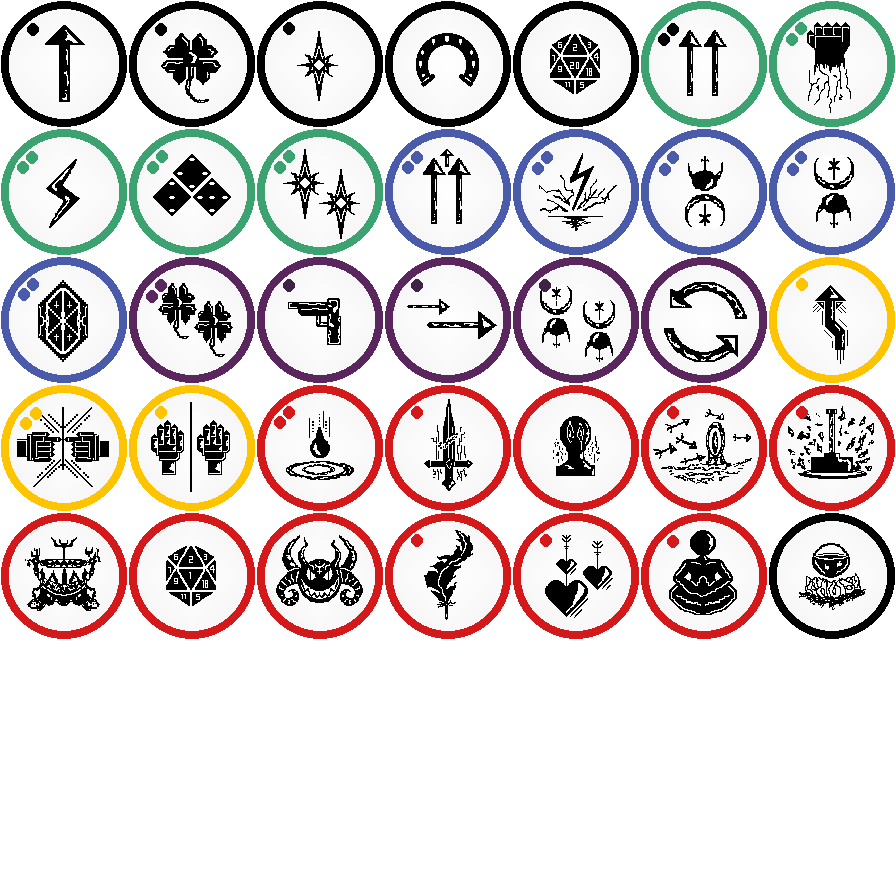
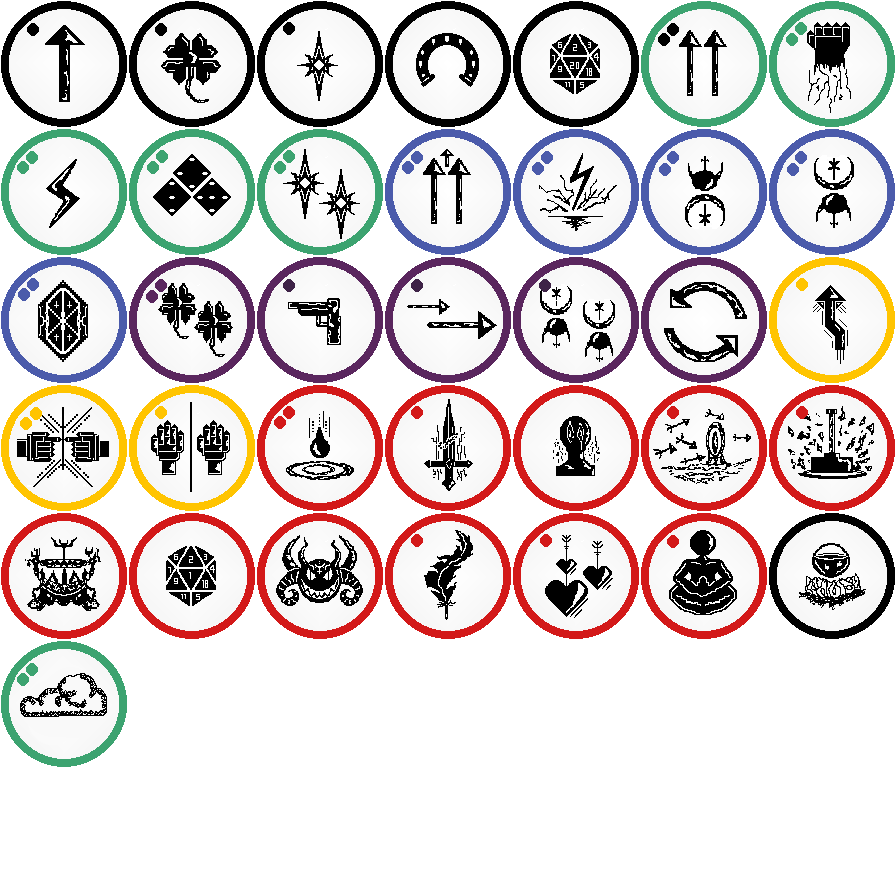
Close ?

Changed region(s): [[0.0, 0.7188, 0.1562, 0.875]]

diff --git a/main.go b/main.go
@@ -1,23 +1,17 @@
 package main
 
 import (
-	"fmt"
 	"image"
 	"log"
 
 	"github.com/Zyko0/Alapae/assets"
 	"github.com/Zyko0/Alapae/core"
 	"github.com/Zyko0/Alapae/input"
+	"github.com/Zyko0/Alapae/logic"
 	"github.com/Zyko0/Alapae/ui"
 	"github.com/go-gl/mathgl/mgl64"
 	"github.com/hajimehoshi/ebiten/v2"
-	"github.com/hajimehoshi/ebiten/v2/ebitenutil"
 	"github.com/hajimehoshi/ebiten/v2/inpututil"
-)
-
-const (
-	ScreenWidth  = 1920
-	ScreenHeight = 1080
 )
 
 type Game struct {
@@ -28,19 +22,18 @@ type Game struct {
 	splash *ui.SplashView
 	stats  *ui.Stats
 
-	//paused  bool
 	updated bool
 }
 
 func New() *Game {
 	return &Game{
-		offscreen: ebiten.NewImage(ScreenWidth, ScreenHeight),
+		offscreen: ebiten.NewImage(logic.ScreenWidth, logic.ScreenHeight),
 		game: core.NewGame(core.NewCamera(
 			mgl64.Vec3{0, 0, 0},
 			mgl64.Vec3{0, 0, 0},
 			45,
-			float64(ScreenWidth)/float64(ScreenHeight),
-		), image.Rect(0, 0, ScreenWidth, ScreenHeight)),
+			float64(logic.ScreenWidth)/float64(logic.ScreenHeight),
+		), image.Rect(0, 0, logic.ScreenWidth, logic.ScreenHeight)),
 		hud: &ui.HUD{},
 
 		splash: ui.NewSplashView(),
@@ -66,8 +59,8 @@ func (g *Game) Update() error {
 			mgl64.Vec3{0, 0, 0},
 			mgl64.Vec3{0, 0, 0},
 			45,
-			float64(ScreenWidth)/float64(ScreenHeight),
-		), image.Rect(0, 0, ScreenWidth, ScreenHeight))
+			float64(logic.ScreenWidth)/float64(logic.ScreenHeight),
+		), image.Rect(0, 0, logic.ScreenWidth, logic.ScreenHeight))
 	}
 	sctx := &ui.StatsContext{
 		Title: "Pause",
@@ -135,19 +128,10 @@ func (g *Game) Draw(screen *ebiten.Image) {
 		g.updated = false
 	}
 	screen.DrawImage(g.offscreen, nil)
-
-	// Debug
-	ebitenutil.DebugPrint(
-		screen,
-		fmt.Sprintf("TPS: %0.2f - FPS %.02f",
-			ebiten.ActualTPS(),
-			ebiten.ActualFPS(),
-		),
-	)
 }
 
 func (g *Game) Layout(outsideWidth, outsideHeight int) (int, int) {
-	return ScreenWidth, ScreenHeight
+	return logic.ScreenWidth, logic.ScreenHeight
 }
 
 func main() {
@@ -155,7 +139,7 @@ func main() {
 	ebiten.SetVsyncEnabled(false)
 	ebiten.SetTPS(core.TPS)
 	ebiten.SetFullscreen(true)
-	ebiten.SetWindowSize(ScreenWidth, ScreenHeight)
+	ebiten.SetWindowSize(logic.ScreenWidth, logic.ScreenHeight)
 	ebiten.SetCursorShape(ebiten.CursorShapeCrosshair)
 
 	assets.SetMusic(assets.MusicMenuShop)

diff --git a/ui/hud.go b/ui/hud.go
@@ -157,7 +157,7 @@ func (*HUD) drawItemTooltip(screen *ebiten.Image, item *building.Item) {
 	for i, c := range item.Curses {
 		// Display up to 8 curses
 		if i >= maxCurses {
-			// TODO: display a "+" to inform that there are more hidden?
+			// Indicate that there are more hidden curses
 			str = fmt.Sprintf("%d more random curses.", len(item.Curses)-8)
 			topts.GeoM.Reset()
 			topts.GeoM.Translate(
@@ -289,9 +289,18 @@ func (hud *HUD) Draw(screen *ebiten.Image, ctx *HUDContext) {
 		opts.ColorScale.Scale(0.8, 0.8, 0.8, 1)
 		text.Draw(screen, str, titleFace, opts)
 	}
-
 	// Item tooltip
 	if ctx.StageKind == core.Building && ctx.TargetItem != nil {
 		hud.drawItemTooltip(screen, ctx.TargetItem)
 	}
+	// Stage number
+	str = fmt.Sprintf("Stage: %d", ctx.Stage)
+	//w, h = text.Measure(str, titleFace, 0)
+	opts.GeoM.Reset()
+	opts.GeoM.Translate(
+		logic.ScreenWidth-256,
+		32,
+	)
+	opts.ColorScale.Scale(0.8, 0.8, 0.8, 1)
+	text.Draw(screen, str, titleFace, opts)
 }

diff --git a/ui/settings.go b/ui/settings.go
@@ -109,7 +109,7 @@ func newSettings() *Settings {
 		),
 	)
 
-	options := ui.NewGrid(4, 4).WithOptions(
+	options := ui.NewGrid(4, 3).WithOptions(
 		opt.Grid.Options(
 			opt.RGB(15, 15, 15),
 			opt.Rounding(15),
@@ -142,15 +142,7 @@ func newSettings() *Settings {
 			opt.Text.PaddingLeft(10),
 		),
 	))
-	/*options.Add(0, 3, 1, 1, uiex.NewLabel("Yes").WithOptions(
-		opt.Label.Text(
-			opt.Text.Color(softWhite),
-			opt.Text.AlignLeft(),
-			opt.Text.Source(assets.FontSource),
-			opt.Text.Size(24),
-			opt.Text.PaddingLeft(10),
-		),
-	))*/
+
 	options.Add(1, 0, 3, 1, newSlider(s.offset, func(t float64) {
 		logic.MouseSensitivity = max(t, 0.01)
 	}, logic.MouseSensitivity))
@@ -162,7 +154,6 @@ func newSettings() *Settings {
 		logic.SFXVolume = t
 		assets.SetSFXVolume(t)
 	}, logic.SFXVolume))
-	//options.Add(1, 3, 3, 1, newSlider(s.offset))
 
 	s.layout.Grid().Add(2, 7, 28, 23, options)
 

diff --git a/core/hand/animation.go b/core/hand/animation.go
@@ -3,10 +3,8 @@ package hand
 import (
 	"errors"
 	"fmt"
-	"log"
 	"strings"
 
-	"github.com/Zyko0/Ebiary/asset"
 	"github.com/go-gl/mathgl/mgl64"
 )
 
@@ -189,31 +187,11 @@ func (a *Animation) NewInstance(hand *Hand, reverted bool) *AnimationInstance {
 	}
 }
 
-var TestAnimation *asset.LiveAsset[*Animation]
-
-func init() {
-	var err error
-
-	TestAnimation, err = asset.NewLiveAssetFunc("assets/animations/run.pose", func(b []byte) (*Animation, error) {
-		a := &Animation{}
-		if err := a.Deserialize(b); err != nil {
-			return nil, err
-		}
-		return a, nil
-	})
-	if err != nil {
-		log.Fatal("animation err: ", err)
-	}
-}
-
 func (a *AnimationInstance) Update(hand *Hand) {
 	if a == nil {
 		return
 	}
-	/*a.animation = TestAnimation.Value() // TODO: tmp
-	if err := TestAnimation.Error(); err != nil {
-		fmt.Println("err:", err)
-	}*/
+
 	var s *HandStep
 	// Lerp
 	idx := a.index

diff --git a/core/boss/smoke_mask.go b/core/boss/smoke_mask.go
@@ -46,7 +46,7 @@ func NewSmokeMask(position mgl64.Vec3, stageNum int) *SmokeMask {
 	smokes[8] = mgl64.Vec4{1, 0, -1, 1}
 	smokes[9] = mgl64.Vec4{0, 1, -1, 1}
 
-	hp := float64((stageNum % 2) * 10000)
+	hp := float64((1 + stageNum/2) * 10000)
 	return &SmokeMask{
 		position: position,
 		stance:   entity.StanceIdle,
@@ -62,7 +62,7 @@ func NewSmokeMask(position mgl64.Vec3, stageNum int) *SmokeMask {
 			rand.Float64() - 0.5,
 			rand.Float64() - 0.5,
 		}.Normalize(),
-		// TODO: hp
+
 		health:    hp,
 		maxHealth: hp,
 	}

diff --git a/ui/stats.go b/ui/stats.go
@@ -77,7 +77,7 @@ func newSubItemGrid(s *Stats) *ui.Grid {
 			)
 		}
 	}
-	// TODO: prepare picture containers
+
 	return g
 }
 
@@ -203,7 +203,6 @@ func NewStats() *Stats {
 	columns.Add(1, 0, 1, 1, allBlock)
 	columns.Add(2, 0, 1, 1, rightBlock)
 	columns.Add(3, 0, 1, 1, s.stats)
-	// TODO: stats block
 
 	// Description box
 	s.descPic = uiex.NewPicture(emptyImg).WithOptions(

diff --git a/core/entity/comet.go b/core/entity/comet.go
@@ -40,7 +40,7 @@ func (c *Comet) Damage() float64 {
 func (c *Comet) TakeHit(_ float64) {}
 
 func (c *Comet) Update(_ *Context) {
-	c.position = c.position.Add(mgl64.Vec3{0, -1, 0}.Mul(c.speed)) // TODO:
+	c.position = c.position.Add(mgl64.Vec3{0, -1, 0}.Mul(c.speed))
 	c.ticks++
 }
 

diff --git a/input/input.go b/input/input.go
@@ -8,10 +8,6 @@ import (
 	"github.com/hajimehoshi/ebiten/v2"
 )
 
-const (
-	MouseSensitivity = 0.0005
-)
-
 var (
 	inputGiven bool
 	cursorInit bool

diff --git a/assets/LICENSE.md b/assets/LICENSE.md
@@ -9,4 +9,4 @@
 # Images
 
 - The source of the splashscreen is: https://github.com/hajimehoshi/ebiten/blob/main/misc/splash_1920x1080_black.png (licensed under [Creative Commons Attribution-NoDerivatives 4.0](https://creativecommons.org/licenses/by-nd/4.0/))
-- The sprites in the `item_sheet.png` image have been made entirely by [Archeron](https://github.com/Archeron-210)
+- The sprites (except the last cloud image) in the `item_sheet.png` image have been made by [Archeron](https://github.com/Archeron-210)

diff --git a/README.md b/README.md
@@ -1,2 +1,9 @@
-# Alapae
-Entry for the ebitengine game jam 2024
+# Dest
+
+Entry for the [Ebitengine game jam 2024](https://itch.io/jam/ebitengine-game-jam-2024)
+
+Instructions and browser version: https://zyk0.itch.io/dest
+
+Disclaimer: game jam code
+
+TODO: change the repository name
